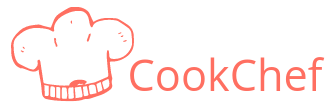
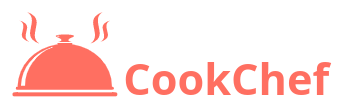
setting up the header and the footer

Changed region(s): [[0.0298, 0.0556, 0.9821, 0.9444], [0.3571, 0.1944, 0.4167, 0.4722], [0.2083, 0.1944, 0.2381, 0.2222]]

diff --git a/src/components/Header.jsx b/src/components/Header.jsx
@@ -1,5 +1,22 @@
+import styles from "./Header.module.scss";
+import logo from "../assets/images/cookchef.png";
+
 function Header() {
-    return <div className="b1">Header</div>;
+    return (
+        <header className={ `${styles.header} d-flex flex-row align-items-center` }>
+            <i className="fa-solid fa-bars mr-15"></i>
+            <div className="flex-fill">
+                <img src={logo} alt="Logo cookchef"/>
+            </div>
+            <ul>
+                <button className="mr-5 btn btn-reverse-primary">
+                    <i className="fa-solid fa-basket-shopping mr-5"></i>
+                    <span>panier</span>
+                </button>
+                <button className="btn btn-primary">connexion</button>
+            </ul>
+        </header>
+    );
 }
 
 export default Header;

diff --git a/public/index.html b/public/index.html
@@ -27,6 +27,7 @@
     <link rel="preconnect" href="https://fonts.googleapis.com">
     <link rel="preconnect" href="https://fonts.gstatic.com" crossorigin>
     <link href="https://fonts.googleapis.com/css2?family=Montserrat:wght@400;500;700&display=swap" rel="stylesheet">
+    <script src="https://kit.fontawesome.com/39324ab069.js" crossorigin="anonymous"></script>
     <title>CookChef</title>
   </head>
   <body>

diff --git a/src/assets/styles/_themes.scss b/src/assets/styles/_themes.scss
@@ -1,0 +1,21 @@
+.btn {
+  padding: 5px 15px;
+  border-radius: 20px;
+  cursor: pointer;
+  transition: 0.2s opacity;
+  &:hover {
+    opacity: 0.8;
+  }
+}
+
+.btn-primary {
+  background-color: var(--primary);
+  color: white;
+  border: 2px solid var(--primary);
+}
+
+.btn-reverse-primary {
+  border: 2px solid var(--primary);
+  color: var(--primary);
+  background-color: white;
+}

diff --git a/src/components/Footer.jsx b/src/components/Footer.jsx
@@ -1,5 +1,11 @@
+import styles from  "./Footer.module.scss";
+
 function Footer() {
-    return <div className="b2">Footer</div>;
+    return (
+        <footer className={`${styles.footer} d-flex flex-row align-items-center justify-content-center p-20`}>
+            <p>Copyright © 2022 CookChef Inc.</p>
+        </footer>
+    );
 }
 
 export default Footer;

diff --git a/src/App.jsx b/src/App.jsx
@@ -7,7 +7,7 @@ function App() {
   return (
       <div className={`d-flex flex-column ${styles.appContainer}`}>
         <Header />
-        <Content />
+          {/*} <Content />*/}
         <Footer />
       </div>
   );

diff --git a/src/assets/styles/_flex.scss b/src/assets/styles/_flex.scss
@@ -14,10 +14,10 @@
   flex: 1 1 auto;
 }
 
-.justify-content {
+.justify-content-center {
   justify-content: center;
 }
 
-.align-items {
+.align-items-center {
   align-items: center;
 }

diff --git a/src/assets/styles/_variables.scss b/src/assets/styles/_variables.scss
@@ -1,5 +1,5 @@
 :root {
-  --primary: "#ff6348";
+  --primary: #ff6348;
   --gray-1: #20232a;
   --gray-2: #fefefe;
   --font-family: "Montserrat", sans-serif;

diff --git a/src/components/Header.module.scss b/src/components/Header.module.scss
@@ -1,0 +1,8 @@
+.header {
+  padding: 10px 20px;
+  box-shadow: var(--box-shadow-nav);
+  color: var(--primary);
+  img {
+    width: 120px;
+  }
+}

diff --git a/src/assets/styles/_utils.scss b/src/assets/styles/_utils.scss
@@ -22,6 +22,14 @@
   margin: 5px;
 }
 
+.mr-5 {
+  margin-right: 5px;
+}
+
+.mr-15 {
+  margin-right: 15px;
+}
+
 .m-10 {
   margin: 10px;
 }

diff --git a/src/components/Footer.module.scss b/src/components/Footer.module.scss
@@ -1,0 +1,4 @@
+.footer {
+  background-color: var(--gray-1);
+  color: white;
+}

diff --git a/src/assets/styles/index.scss b/src/assets/styles/index.scss
@@ -3,3 +3,4 @@
 @use "./flex";
 @use "./utils";
 @use "debug";
+@use "themes";
